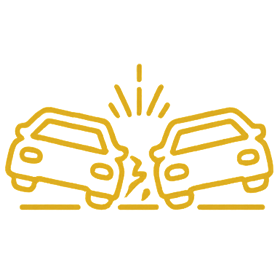
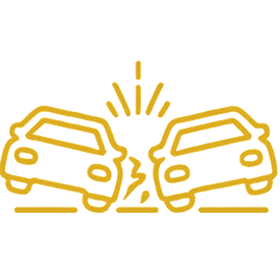
update-website

Changed region(s): [[0.0, 0.3714, 1.0, 0.7714], [0.3714, 0.2, 0.6286, 0.4286]]

diff --git a/style.css b/style.css
@@ -14,7 +14,6 @@ html {
 body {
   line-height: 1.4;
   color: #333333;
-  text-align: right;
   overflow-x: hidden;
 }
 
@@ -24,7 +23,7 @@ body {
   width: 60%;
   margin: auto;
   padding: 15px;
-  text-align: center;
+  text-align: justify;
   transition: 0.3s;
 }
 
@@ -33,8 +32,8 @@ body {
   margin-bottom: 10px; /* צמצום משמעותי מלמטה (היה 25px) */
   padding-top: 10px; /* הוספת פאדינג פנימי קטן במקום מרג'ין חיצוני */
   padding-bottom: 10px;
-  box-shadow: 0 4px 12px rgba(0, 0, 0, 0.05); /* צל עדין יותר שתופס פחות "נפח" ויזואלי */
-  text-align: center;
+  box-shadow: 0 4px 12pgx rgba(0, 0, 0, 0.05); /* צל עדין יותר שתופס פחות "נפח" ויזואלי */
+  text-align: justify;
 }
 
 .container2:hover {
@@ -343,8 +342,6 @@ button {
 .dynamic-img {
   width: 300px;
   height: 300px;
-  /* מכיוון שהתמונות כבר ריבועיות, object-fit רק מוודא שהן 
-       נכנסות למסגרת בצורה מושלמת בלי "גליצ'ים" של פיקסלים */
   object-fit: contain;
   border-radius: 10px;
   box-shadow: 0 4px 15px rgba(0, 0, 0, 0.4);
@@ -474,6 +471,9 @@ footer,
 }
 
 @media (max-width: 768px) {
+  .container2 {
+    padding: 6px;
+  }
   .content-row {
     flex-direction: column; /* תמונה מעל טקסט במובייל */
     text-align: right;
@@ -520,9 +520,9 @@ footer,
     font-size: 20px;
   }
   p {
-    text-align: right;
+    text-align: justify;
     font-size: 16px;
-    line-height: 1.6;
+    line-height: 1.5;
   }
   .header-office {
     font-size: 22px;
